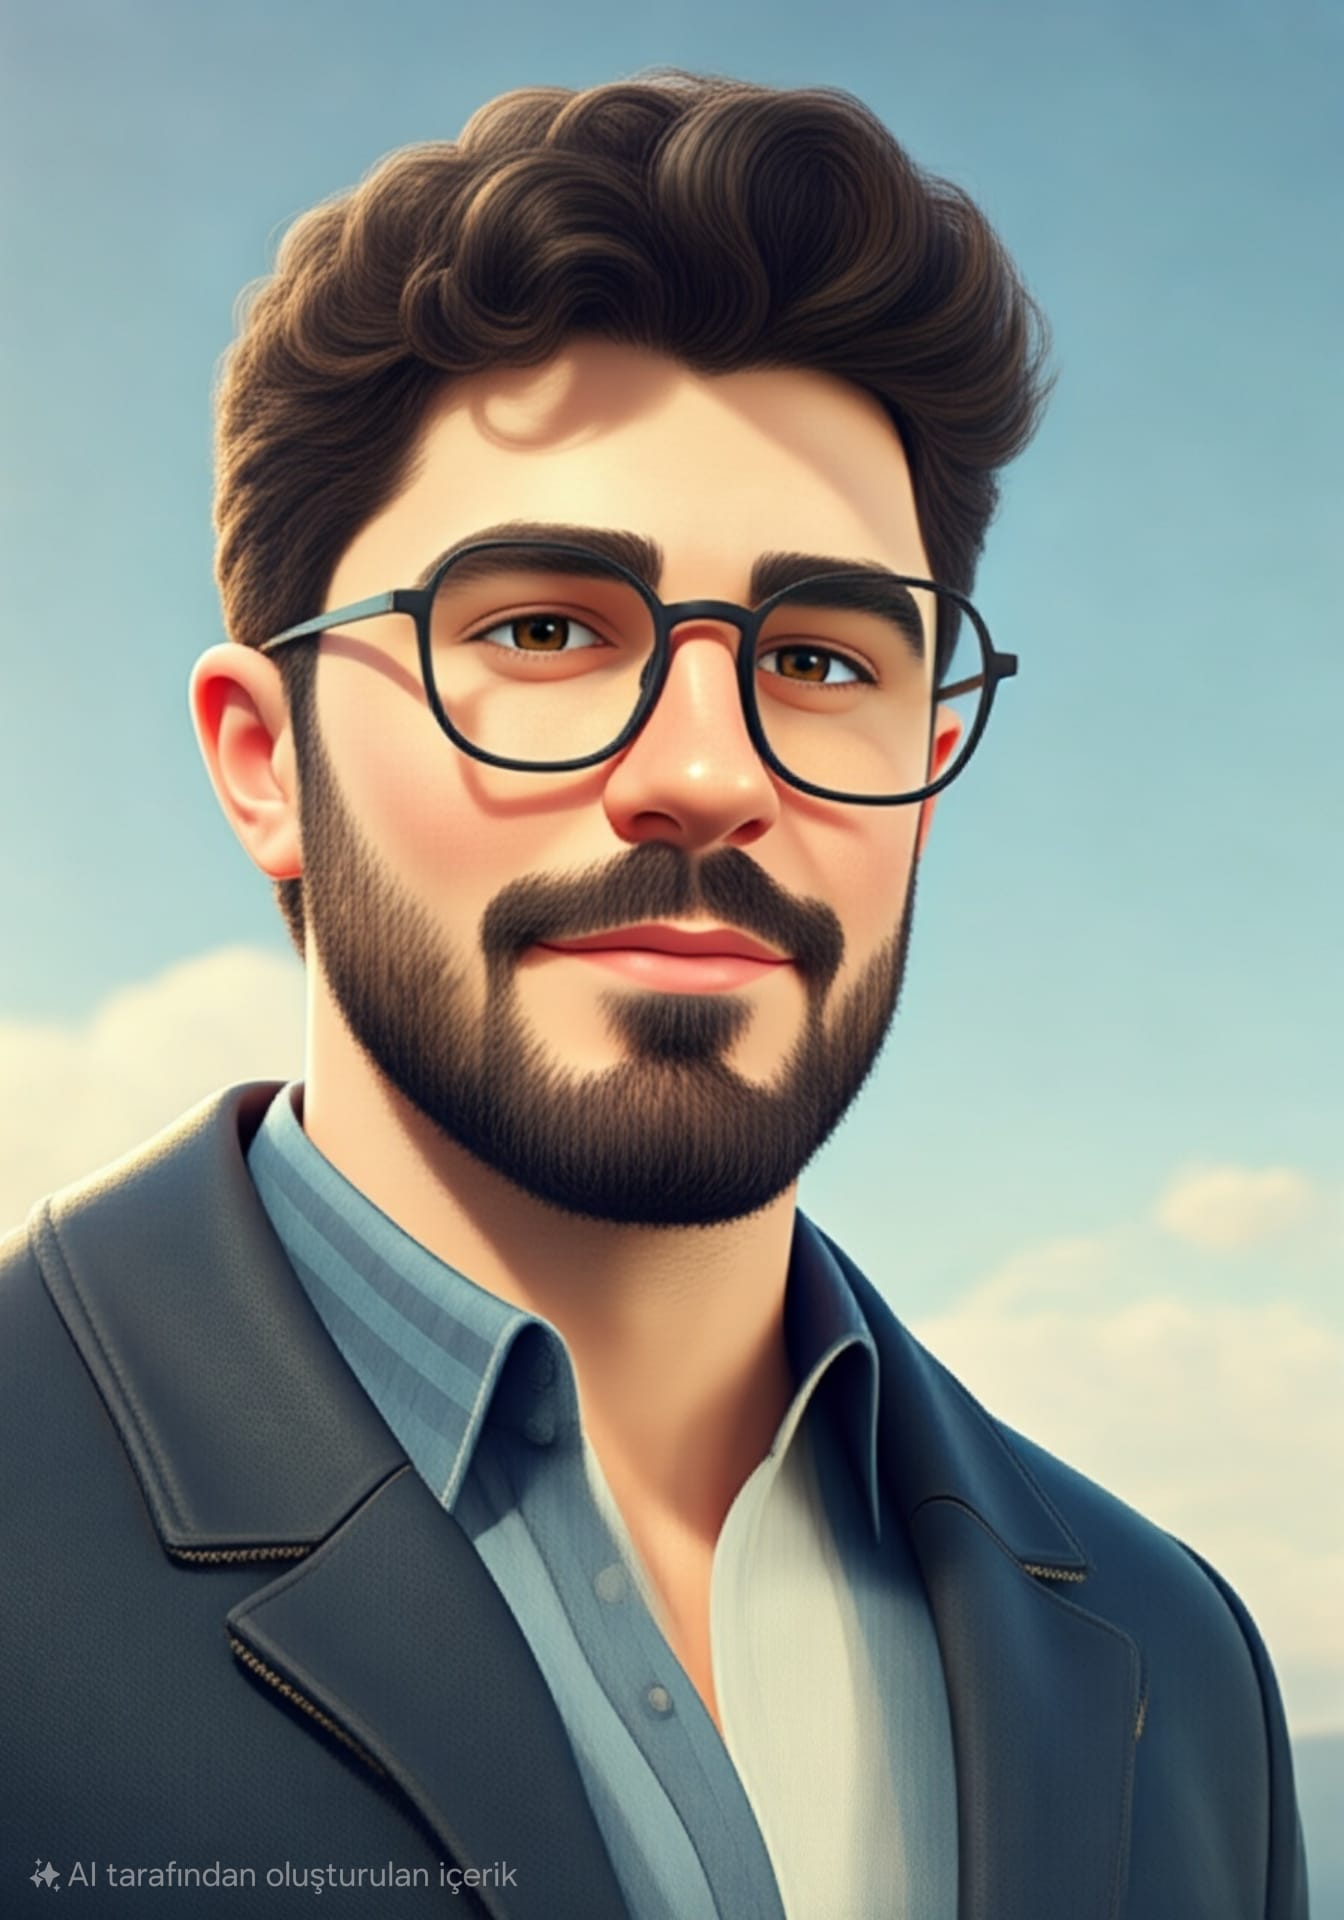
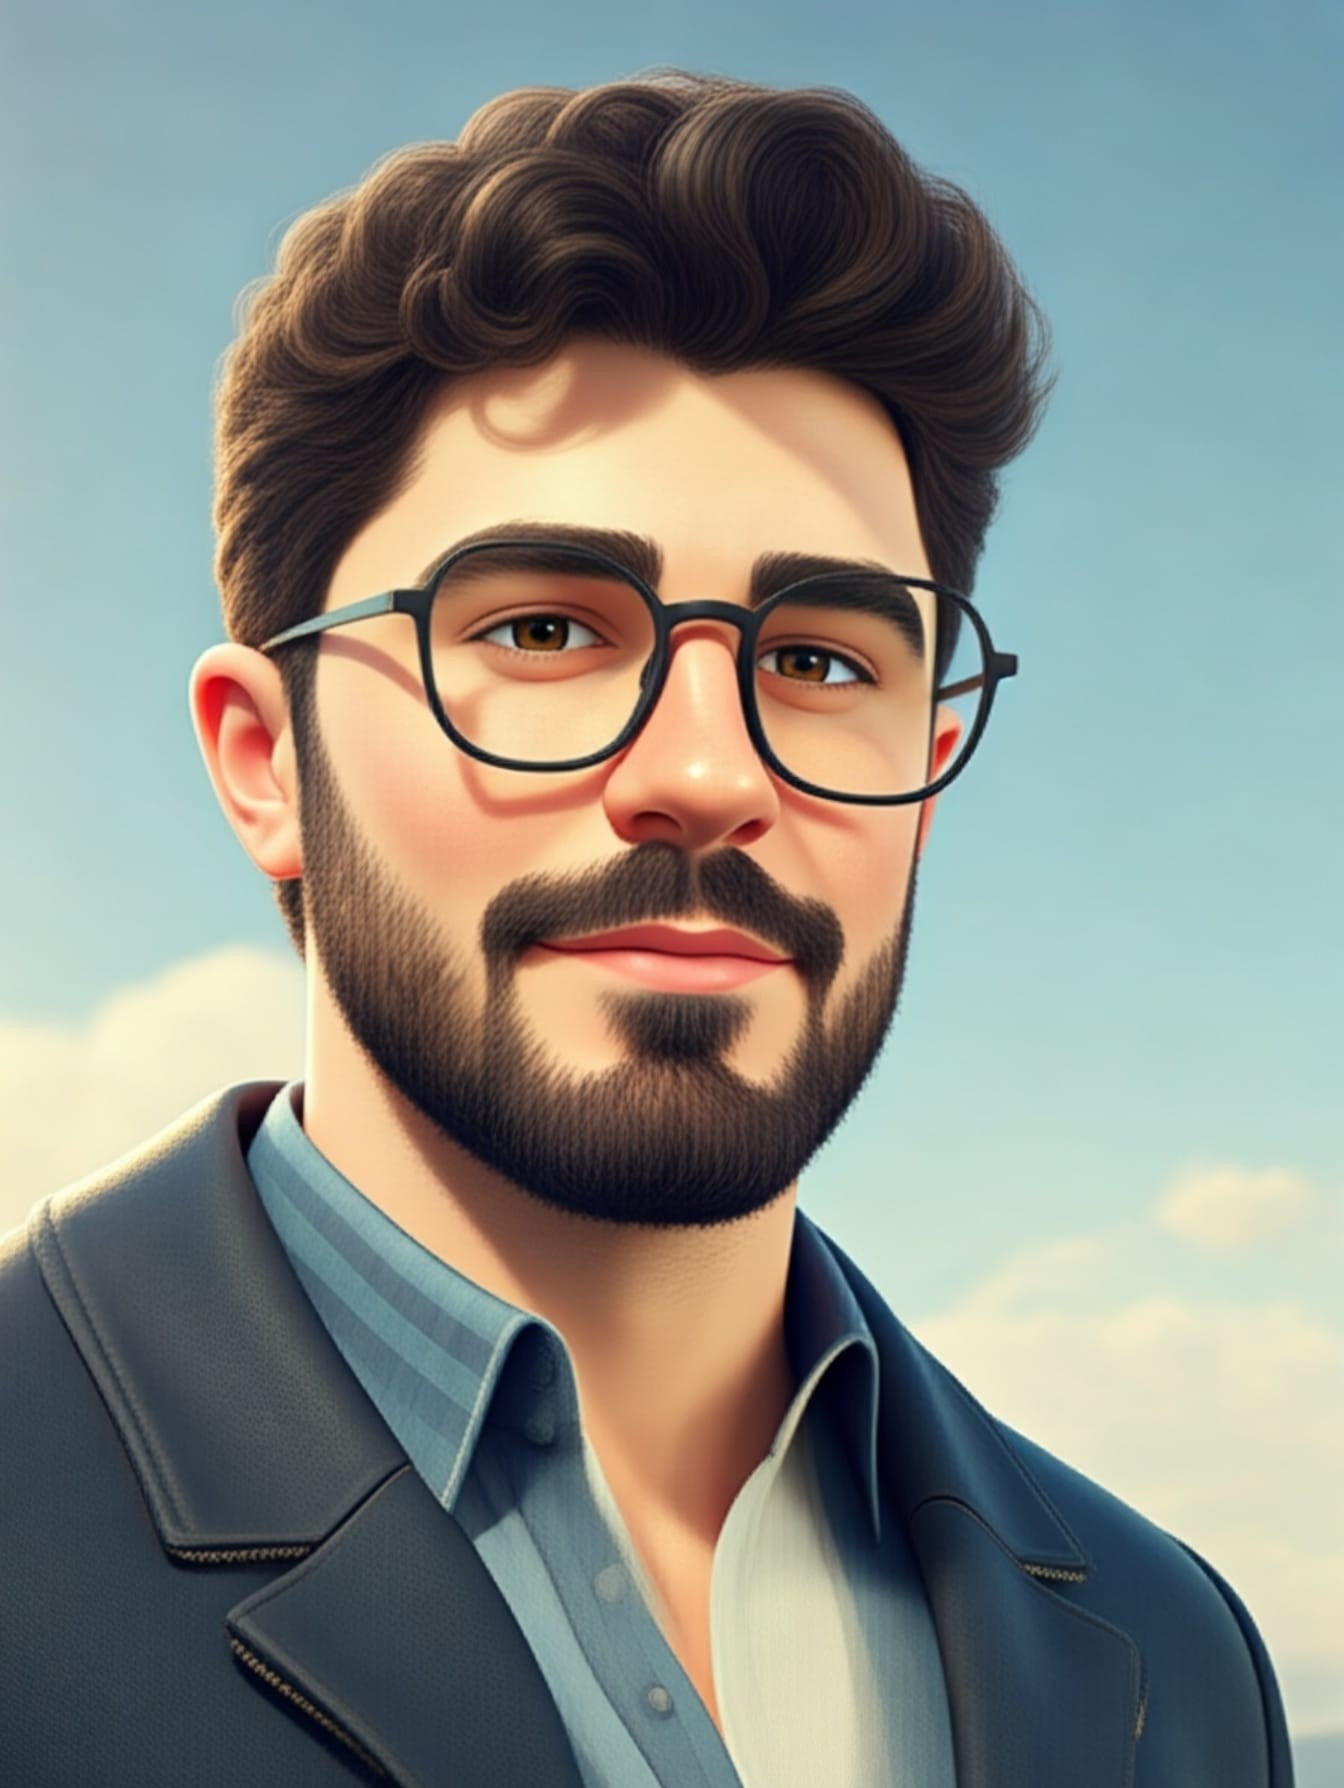
mobil kontroller yenilendi
- Sabit sanal joystick (sol alt): kenara itince kosu, DOM-transform ile
  render'siz akici knob, yon isaretleri
- Esere dogrudan dokunarak inceleme: isin dokunulan noktadan atilir
- Hayalet click duzeltmesi: panel acilisinda 350ms silahsizlanma +
  touchend'de preventDefault (panel aninda kapanma/donma bug'i)
- Zipla butonu yenilendi; iPhone centik/home-bar guvenli alanlari
  (viewport-fit=cover + env(safe-area-inset-*))
- Melez cihazlarda ilk dokunusta dokunmatik moda otomatik gecis
- Gizlenince tum dokunma durumu sifirlanir (takili yurume onlendi)

diff --git a/src/gallery/ui/InfoPanel.tsx b/src/gallery/ui/InfoPanel.tsx
@@ -1,3 +1,4 @@
+import { useEffect, useState } from 'react';
 import { AnimatePresence, motion } from 'framer-motion';
 import { X, ArrowUpRight, Mail, Phone, MapPin } from 'lucide-react';
 
@@ -38,15 +39,25 @@ function PanelShell({
   onClose: () => void;
   eyebrow: string;
 }) {
+  // Mobilde paneli açan dokunuşun ürettiği hayalet "click" (~300ms sonra gelir)
+  // dış-tıklama katmanına düşüp paneli anında kapatıyordu. Panel ilk 350ms
+  // boyunca "silahsız": dış tıklama yok sayılır, panel etkileşimi kapalı.
+  const [armed, setArmed] = useState(false);
+  useEffect(() => {
+    const t = setTimeout(() => setArmed(true), 350);
+    return () => clearTimeout(t);
+  }, []);
+
   return (
     <>
       {/* Panel dışına tıklayınca kapat */}
-      <div className="fixed inset-0 z-40" onClick={onClose} />
+      <div className="fixed inset-0 z-40" onClick={armed ? onClose : undefined} />
       <motion.aside
         initial={{ x: 480, opacity: 0 }}
         animate={{ x: 0, opacity: 1 }}
         exit={{ x: 480, opacity: 0 }}
         transition={{ type: 'spring', stiffness: 260, damping: 30 }}
+        style={{ pointerEvents: armed ? 'auto' : 'none' }}
         className="fixed right-4 top-4 bottom-4 z-50 w-[min(420px,calc(100vw-2rem))] flex flex-col rounded-3xl bg-white/90 backdrop-blur-2xl border border-stone-200 shadow-2xl shadow-gold-700/10 overflow-hidden"
       >
         <div className="flex items-center justify-between px-6 pt-5 pb-3">

diff --git a/src/gallery/ui/TouchControls.tsx b/src/gallery/ui/TouchControls.tsx
@@ -143,7 +143,9 @@ export function TouchControls({ visible, touchRef, onInteract }: TouchControlsPr
           lookTouchId.current = null;
           const dt = performance.now() - tapInfo.current.t;
           if (dt < 280 && tapInfo.current.moved < 14) {
-            // Kısa dokunuş: dokunulan noktadan esere ışın at
+            // Kısa dokunuş: hayalet "click"i engelle (yeni açılan paneli
+            // anında kapatmasın), sonra dokunulan noktadan esere ışın at
+            if (e.cancelable) e.preventDefault();
             onInteract({
               x: (tapInfo.current.x / window.innerWidth) * 2 - 1,
               y: -(tapInfo.current.y / window.innerHeight) * 2 + 1,